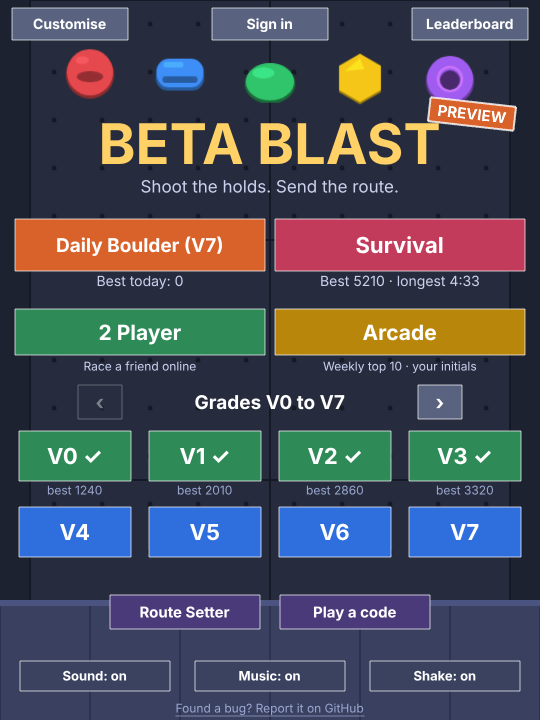
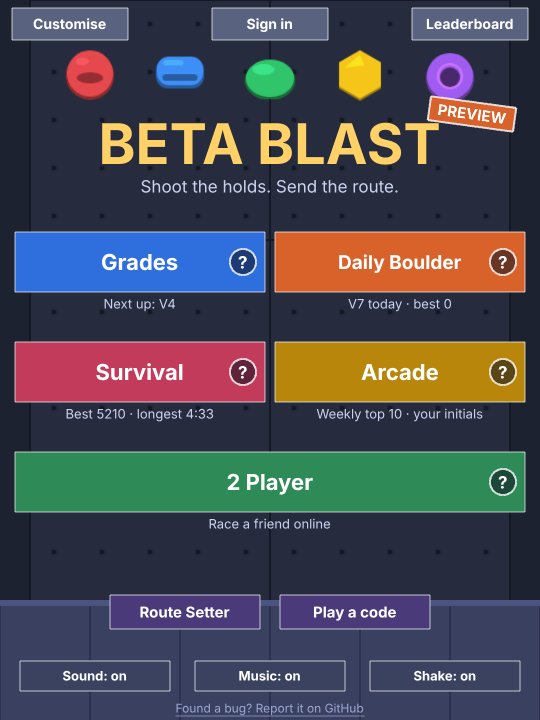
Add How to play pages, and move the grades onto their own screen
Each mode on the menu has a ? that explains it. The numbered grades were a different
kind of game sitting under the modes, so they now have their own Grades screen,
reached from a Grades button. Leaving a grade returns to that screen.

Claude-Session: https://claude.ai/code/session_0177vdUkiav8F1CgPU7AkMxK

diff --git a/src/scenes/MenuScene.ts b/src/scenes/MenuScene.ts
@@ -1,7 +1,8 @@
 import Phaser from 'phaser';
 import { ISSUES_URL, WIDTH } from '../config';
 import { arcadeLevel } from '../game/arcade';
-import { dailyLevel, gradeLevel, LevelSpec, survivalLevel } from '../game/levels';
+import { ModeId, modeInfo } from '../game/modes';
+import { dailyLevel, LevelSpec, survivalLevel } from '../game/levels';
 import { codeFromInput, decodeRoute, routeLevel } from '../game/routes';
 import { getBest, getBestTime, getMusic, getShake, isSent, setShake } from '../game/storage';
 import { isMutedNow, toggleMute, unlockAudio } from '../game/audio';
@@ -12,9 +13,6 @@ import { OVERALL } from '../game/boards';
 import { getAuth } from '../game/storage';
 import { currentTheme } from '../game/themes';
 import { makeButton, makeToggle, txt } from '../ui';
-
-const PAGE = 8;
-let menuPage: number | null = null; // remembered while the page is open
 
 export class MenuScene extends Phaser.Scene {
   constructor() {
@@ -32,46 +30,23 @@ export class MenuScene extends Phaser.Scene {
     txt(this, WIDTH / 2, 186, 'Shoot the holds. Send the route.', 17, '#c9d1ee', false);
     this.previewStamp(472, 114);
 
-    // The ways to play: two solo modes side by side, then the versus mode.
+    // The ways to play, each with a ? that explains it.
     const daily = dailyLevel();
-    makeButton(this, 140, 245, 250, 52, `Daily Boulder (V${daily.grade})${isSent(daily.id) ? '  ✓' : ''}`, () => this.play(daily), 0xd9622b, 19);
-    txt(this, 140, 281, `Best today: ${getBest(daily.id)}`, 14, '#c9d1ee', false);
-    makeButton(this, 400, 245, 250, 52, 'Survival', () => this.play(survivalLevel()), 0xc23b5a, 22);
-    const longest = getBestTime('survival');
-    txt(this, 400, 281, longest ? `Best ${getBest('survival')} · longest ${formatTime(longest)}` : 'How long can you last?', 14, '#c9d1ee', false);
-    makeButton(this, 140, 332, 250, 46, '2 Player', () => this.scene.start('Lobby'), 0x2e8b57, 21);
-    makeButton(this, 400, 332, 250, 46, 'Arcade', () => this.play(arcadeLevel()), 0xb8860b, 21);
-    txt(this, 140, 366, 'Race a friend online', 12, '#c9d1ee', false);
-    txt(this, 400, 366, 'Weekly top 10 · your initials', 12, '#c9d1ee', false);
-
-    // Grades never run out, so they come in pages. Open on the page with your first unsent grade.
-    if (menuPage === null) {
-      let first = 0;
-      while (isSent(`v${first}`)) first++;
-      menuPage = Math.floor(first / PAGE);
-    }
-    const from = menuPage * PAGE;
-    txt(this, WIDTH / 2, 402, `Grades V${from} to V${from + PAGE - 1}`, 19);
-    const arrow = (x: number, label: string, enabled: boolean, delta: number) => {
-      const b = makeButton(this, x, 402, 44, 34, label, () => {
-        if (!enabled) return;
-        menuPage = Math.max(0, (menuPage ?? 0) + delta);
-        this.scene.restart();
-      }, enabled ? 0x59627f : 0x2a2f42, 20);
-      if (!enabled) b.setAlpha(0.4);
+    let nextGrade = 0;
+    while (isSent(`v${nextGrade}`)) nextGrade++;
+    const mode = (x: number, y: number, w: number, label: string, sub: string, id: ModeId, go: () => void, size = 22) => {
+      const info = modeInfo(id);
+      const colour = id === 'grades' ? theme.grade : info.colour;
+      makeButton(this, x, y, w, 60, label, go, colour, size);
+      txt(this, x, y + 42, sub, 13, '#c9d1ee', false);
+      this.helpButton(x + w / 2 - 22, y, id);
     };
-    arrow(100, '‹', menuPage > 0, -1);
-    arrow(440, '›', true, 1);
-    for (let i = 0; i < PAGE; i++) {
-      const g = from + i;
-      const level = gradeLevel(g);
-      const x = 75 + (i % 4) * 130;
-      const y = 456 + Math.floor(i / 4) * 76;
-      const sent = isSent(level.id);
-      makeButton(this, x, y, 112, 50, `V${g}${sent ? ' ✓' : ''}`, () => this.play(level), sent ? theme.gradeSent : theme.grade, 22);
-      const best = getBest(level.id);
-      if (best > 0) txt(this, x, y + 34, `best ${best}`, 12, '#9aa6cf', false);
-    }
+    mode(140, 262, 250, 'Grades', `Next up: V${nextGrade}`, 'grades', () => this.scene.start('Grades'));
+    mode(400, 262, 250, `Daily Boulder${isSent(daily.id) ? '  ✓' : ''}`, `V${daily.grade} today · best ${getBest(daily.id)}`, 'daily', () => this.play(daily), 19);
+    const longest = getBestTime('survival');
+    mode(140, 372, 250, 'Survival', longest ? `Best ${getBest('survival')} · longest ${formatTime(longest)}` : 'How long can you last?', 'survival', () => this.play(survivalLevel()));
+    mode(400, 372, 250, 'Arcade', 'Weekly top 10 · your initials', 'arcade', () => this.play(arcadeLevel()));
+    mode(270, 482, 510, '2 Player', 'Race a friend online', 'versus', () => this.scene.start('Lobby'));
 
     const auth = getAuth();
     makeButton(this, WIDTH / 2, 24, 116, 32, auth ? (auth.name ?? 'Account') : 'Sign in', () => this.scene.start('Account'), auth ? 0x2e8b57 : 0x59627f, 14);
@@ -97,6 +72,15 @@ export class MenuScene extends Phaser.Scene {
     this.issuesLink(WIDTH / 2, 708);
 
     this.input.once('pointerdown', unlockAudio);
+  }
+
+  /** A small round "?" that opens the How to play page for a mode. */
+  private helpButton(x: number, y: number, mode: ModeId): void {
+    const dot = this.add.circle(x, y, 13, 0x0d1020, 0.55).setStrokeStyle(2, 0xffffff, 0.8).setInteractive({ useHandCursor: true });
+    dot.on('pointerover', () => dot.setFillStyle(0x0d1020, 0.9));
+    dot.on('pointerout', () => dot.setFillStyle(0x0d1020, 0.55));
+    dot.on('pointerup', () => this.scene.start('HowTo', { mode }));
+    txt(this, x, y, '?', 17);
   }
 
   /** A small "report a problem" link to the project's issues on GitHub. */

diff --git a/src/game/modes.ts b/src/game/modes.ts
@@ -1,0 +1,85 @@
+// What each way to play does, in words, for the "How to play" screens. Plain data, so the text is easy to change.
+export type ModeId = 'grades' | 'daily' | 'survival' | 'arcade' | 'versus';
+
+export interface ModeInfo {
+  id: ModeId;
+  title: string;
+  tagline: string;
+  colour: number; // the menu button's colour
+  lines: string[];
+  /** What the screen's main button says. */
+  go: string;
+}
+
+export const CONTROLS = 'Aim: mouse or finger   ·   Shoot: release or Space   ·   Swap: NEXT or S';
+
+export const MODES: ModeInfo[] = [
+  {
+    id: 'grades',
+    title: 'GRADES',
+    tagline: 'Clear the whole wall to send the route.',
+    colour: 0x2f6fdd,
+    go: 'Pick a grade',
+    lines: [
+      'Shoot holds at the wall. Match 3 or more of the same colour to pop them. Anything left hanging falls too.',
+      'A shot that pops nothing fills a PUMP pip. When they are full the wall drops a row. Reach the red line and you fall.',
+      'A gauge down the right fills with time and drops a row as well, so keep moving.',
+      'Send it quickly for a speed bonus, and with no pumps for a FLASH (+500).',
+      'Grades never run out. Each is harder, with new holds: chalk bombs, mega jugs, volumes and slicks.',
+    ],
+  },
+  {
+    id: 'daily',
+    title: 'DAILY BOULDER',
+    tagline: 'One route a day, the same for everyone.',
+    colour: 0xd9622b,
+    go: 'Play today',
+    lines: [
+      'A new wall every day, and everyone gets the same one. It is a grade between V3 and V7.',
+      'The rules are the Grades rules: clear the wall, send it fast, and try for a FLASH.',
+      'Play as often as you like. Your best score today goes on the Daily leaderboard.',
+      'Come back tomorrow for a new route.',
+    ],
+  },
+  {
+    id: 'survival',
+    title: 'SURVIVAL',
+    tagline: 'No finish line. Last as long as you can.',
+    colour: 0xc23b5a,
+    go: 'Play Survival',
+    lines: [
+      'The wall keeps coming on a timer, and it speeds up every stage (a stage lasts 40 seconds).',
+      'New colours and obstacles join as the stages go by. Each new stage pays +250.',
+      'Clear every colour for a clean sweep: +500, and fresh rows arrive at once.',
+      'The run ends when the wall reaches the red line. Your best score and longest run are saved, and can go on the Survival leaderboard.',
+    ],
+  },
+  {
+    id: 'arcade',
+    title: 'ARCADE',
+    tagline: 'Survival, with your initials on a weekly table.',
+    colour: 0xb8860b,
+    go: 'Play Arcade',
+    lines: [
+      'It plays exactly like Survival.',
+      "If your score makes this week's top 10, you enter three initials: ▲ ▼ change the letter and Return moves on.",
+      'The table clears every Monday at 00:00 UTC, so everyone gets a fresh start each week.',
+      'Initials belong to nobody, and Arcade scores do not count towards the Overall ranking.',
+    ],
+  },
+  {
+    id: 'versus',
+    title: '2 PLAYER',
+    tagline: 'Race a friend over the internet.',
+    colour: 0x2e8b57,
+    go: 'Host or join',
+    lines: [
+      'One player hosts and shares a keyword (or a link). The other joins with it.',
+      'You both get the same wall and the same holds, so the better player wins.',
+      'Every pop sends your opponent a row. Rows sent to you wait, and land together when you miss. Popping first cancels them.',
+      'Clear every colour to send 4 rows and get a fresh wall. Reach the red line and you lose.',
+    ],
+  },
+];
+
+export const modeInfo = (id: ModeId): ModeInfo => MODES.find((m) => m.id === id) ?? MODES[0];

diff --git a/src/scenes/GradesScene.ts b/src/scenes/GradesScene.ts
@@ -1,0 +1,61 @@
+import Phaser from 'phaser';
+import { WIDTH } from '../config';
+import { gradeLevel, LevelSpec } from '../game/levels';
+import { currentTheme } from '../game/themes';
+import { unlockAudio } from '../game/audio';
+import { getBest, isSent } from '../game/storage';
+import { makeButton, txt } from '../ui';
+
+const PAGE = 8;
+let gradesPage: number | null = null; // remembered while the page is open
+
+/** The grades, a page at a time: they never run out. Opens on the page with your first grade not yet sent. */
+export class GradesScene extends Phaser.Scene {
+  constructor() {
+    super('Grades');
+  }
+
+  create(): void {
+    const theme = currentTheme();
+    this.add.image(0, 0, 'wall').setOrigin(0);
+    txt(this, WIDTH / 2, 60, 'GRADES', 44, theme.title);
+    txt(this, WIDTH / 2, 104, 'Clear the whole wall to send the route. Each grade is harder.', 15, '#c9d1ee', false);
+
+    if (gradesPage === null) {
+      let first = 0;
+      while (isSent(`v${first}`)) first++;
+      gradesPage = Math.floor(first / PAGE);
+    }
+    const from = gradesPage * PAGE;
+    txt(this, WIDTH / 2, 170, `V${from} to V${from + PAGE - 1}`, 22);
+    const arrow = (x: number, label: string, enabled: boolean, delta: number) => {
+      const b = makeButton(this, x, 170, 52, 40, label, () => {
+        if (!enabled) return;
+        gradesPage = Math.max(0, (gradesPage ?? 0) + delta);
+        this.scene.restart();
+      }, enabled ? 0x59627f : 0x2a2f42, 22);
+      if (!enabled) b.setAlpha(0.4);
+    };
+    arrow(70, '‹', gradesPage > 0, -1);
+    arrow(WIDTH - 70, '›', true, 1);
+
+    for (let i = 0; i < PAGE; i++) {
+      const g = from + i;
+      const level = gradeLevel(g);
+      const x = 75 + (i % 4) * 130;
+      const y = 250 + Math.floor(i / 4) * 100;
+      const sent = isSent(level.id);
+      makeButton(this, x, y, 112, 60, `V${g}${sent ? ' ✓' : ''}`, () => this.play(level), sent ? theme.gradeSent : theme.grade, 24);
+      const best = getBest(level.id);
+      txt(this, x, y + 42, best > 0 ? `best ${best}` : sent ? '' : 'not sent yet', 12, '#9aa6cf', false);
+    }
+
+    makeButton(this, 140, 660, 220, 46, 'How it works', () => this.scene.start('HowTo', { mode: 'grades' }), 0x3a4260, 18);
+    makeButton(this, 400, 660, 220, 46, 'Back', () => this.scene.start('Menu'), 0x59627f, 19);
+  }
+
+  private play(level: LevelSpec): void {
+    unlockAudio();
+    this.scene.start('Game', { level });
+  }
+}

diff --git a/src/scenes/HowToScene.ts b/src/scenes/HowToScene.ts
@@ -1,0 +1,56 @@
+import Phaser from 'phaser';
+import { WIDTH } from '../config';
+import { arcadeLevel } from '../game/arcade';
+import { dailyLevel, survivalLevel } from '../game/levels';
+import { CONTROLS, ModeId, modeInfo } from '../game/modes';
+import { unlockAudio } from '../game/audio';
+import { makeButton, txt } from '../ui';
+
+/** A page of "how this mode works", opened from the ? beside a mode on the menu. */
+export class HowToScene extends Phaser.Scene {
+  private mode: ModeId = 'grades';
+
+  constructor() {
+    super('HowTo');
+  }
+
+  init(data: { mode?: ModeId }): void {
+    this.mode = data?.mode ?? 'grades';
+  }
+
+  create(): void {
+    const info = modeInfo(this.mode);
+    this.add.image(0, 0, 'wall').setOrigin(0).setTint(0x999999);
+    txt(this, WIDTH / 2, 56, info.title, 40, '#ffd166');
+    txt(this, WIDTH / 2, 104, info.tagline, 18, '#c9d1ee', false).setWordWrapWidth(470);
+
+    let y = 150;
+    for (const line of info.lines) {
+      this.add.circle(48, y + 11, 5, info.colour);
+      const t = txt(this, 66, y, line, 16, '#ffffff', false).setOrigin(0, 0).setAlign('left').setWordWrapWidth(430);
+      y += t.height + 16;
+    }
+
+    this.add.rectangle(WIDTH / 2, 566, WIDTH - 60, 44, 0x0d1020, 0.85).setStrokeStyle(2, info.colour, 0.9);
+    txt(this, WIDTH / 2, 566, CONTROLS, 11, '#c9d1ee', false).setWordWrapWidth(WIDTH - 90);
+
+    makeButton(this, 140, 660, 220, 46, info.go, () => this.go(), info.colour, 19);
+    makeButton(this, 400, 660, 220, 46, 'Back', () => this.scene.start('Menu'), 0x59627f, 19);
+  }
+
+  private go(): void {
+    unlockAudio();
+    switch (this.mode) {
+      case 'grades':
+        return void this.scene.start('Grades');
+      case 'versus':
+        return void this.scene.start('Lobby');
+      case 'daily':
+        return void this.scene.start('Game', { level: dailyLevel() });
+      case 'arcade':
+        return void this.scene.start('Game', { level: arcadeLevel() });
+      case 'survival':
+        return void this.scene.start('Game', { level: survivalLevel() });
+    }
+  }
+}

diff --git a/src/main.ts b/src/main.ts
@@ -7,6 +7,8 @@ import { EditorScene } from './scenes/EditorScene';
 import { LobbyScene } from './scenes/LobbyScene';
 import { LeaderboardScene } from './scenes/LeaderboardScene';
 import { CustomiseScene } from './scenes/CustomiseScene';
+import { GradesScene } from './scenes/GradesScene';
+import { HowToScene } from './scenes/HowToScene';
 import { InitialsScene } from './scenes/InitialsScene';
 import { AccountScene } from './scenes/AccountScene';
 import { startAccount } from './game/account';
@@ -18,7 +20,7 @@ const game = new Phaser.Game({
   height: HEIGHT,
   backgroundColor: '#14171f',
   scale: { mode: Phaser.Scale.FIT, autoCenter: Phaser.Scale.CENTER_BOTH },
-  scene: [BootScene, MenuScene, GameScene, EditorScene, LobbyScene, LeaderboardScene, CustomiseScene, AccountScene, InitialsScene],
+  scene: [BootScene, MenuScene, GameScene, EditorScene, LobbyScene, LeaderboardScene, CustomiseScene, AccountScene, InitialsScene, GradesScene, HowToScene],
 });
 
 // Dev-only handle so browser tests can inspect the running game.

diff --git a/src/scenes/GameScene.ts b/src/scenes/GameScene.ts
@@ -671,7 +671,7 @@ export class GameScene extends Phaser.Scene {
 
   private leave(): void {
     this.net?.close();
-    this.scene.start(this.data0.from === 'editor' ? 'Editor' : 'Menu', { code: this.data0.code });
+    this.scene.start(this.data0.from === 'editor' ? 'Editor' : this.isGrade() ? 'Grades' : 'Menu', { code: this.data0.code });
   }
 
   private restart(): void {
@@ -738,8 +738,14 @@ export class GameScene extends Phaser.Scene {
     };
   }
 
+  /** A numbered grade (not a Daily, custom route, Survival, Arcade or match): leaving goes back to the grade list. */
+  private isGrade(): boolean {
+    const l = this.level;
+    return !l.daily && !l.custom && !l.survival && !l.versus;
+  }
+
   private leaveLabel(): string {
-    return this.data0.from === 'editor' ? 'Back to editor' : 'Menu';
+    return this.data0.from === 'editor' ? 'Back to editor' : this.isGrade() ? 'Grades' : 'Menu';
   }
 
   // ---------- two-player match ----------

diff --git a/tests/modes.test.ts b/tests/modes.test.ts
@@ -1,0 +1,20 @@
+import { describe, expect, it } from 'vitest';
+import { CONTROLS, MODES, modeInfo } from '../src/game/modes';
+
+describe('the how-to-play pages', () => {
+  it('cover every way to play once, each with a title, a tagline, some rules and a button label', () => {
+    expect(MODES.map((m) => m.id).sort()).toEqual(['arcade', 'daily', 'grades', 'survival', 'versus']);
+    for (const m of MODES) {
+      expect(m.title.length).toBeGreaterThan(2);
+      expect(m.tagline.length).toBeGreaterThan(10);
+      expect(m.lines.length).toBeGreaterThanOrEqual(3);
+      expect(m.go.length).toBeGreaterThan(2);
+      for (const line of m.lines) expect(line.length).toBeLessThan(200); // the page has room for about five short lines
+    }
+    expect(CONTROLS.length).toBeLessThan(120);
+  });
+  it('look a mode up by id', () => {
+    expect(modeInfo('arcade').title).toBe('ARCADE');
+    expect(modeInfo('versus').title).toBe('2 PLAYER');
+  });
+});

diff --git a/README.md b/README.md
@@ -41,6 +41,8 @@ npm run build    # production build in dist/
 
 ## How to play
 
+Every way to play on the menu has a **?** beside it that explains how that mode works. **Grades** opens the list of numbered grades (V0, V1, ...); the other modes start straight away.
+
 - **Aim**: move the mouse or drag a finger. Arrow keys / A / D also work. The chalk bag leans toward your aim and a ghost hold shows where your shot will land.
 - **Shoot**: release the click or tap, or press Space.
 - **Swap**: tap NEXT, or press S.
